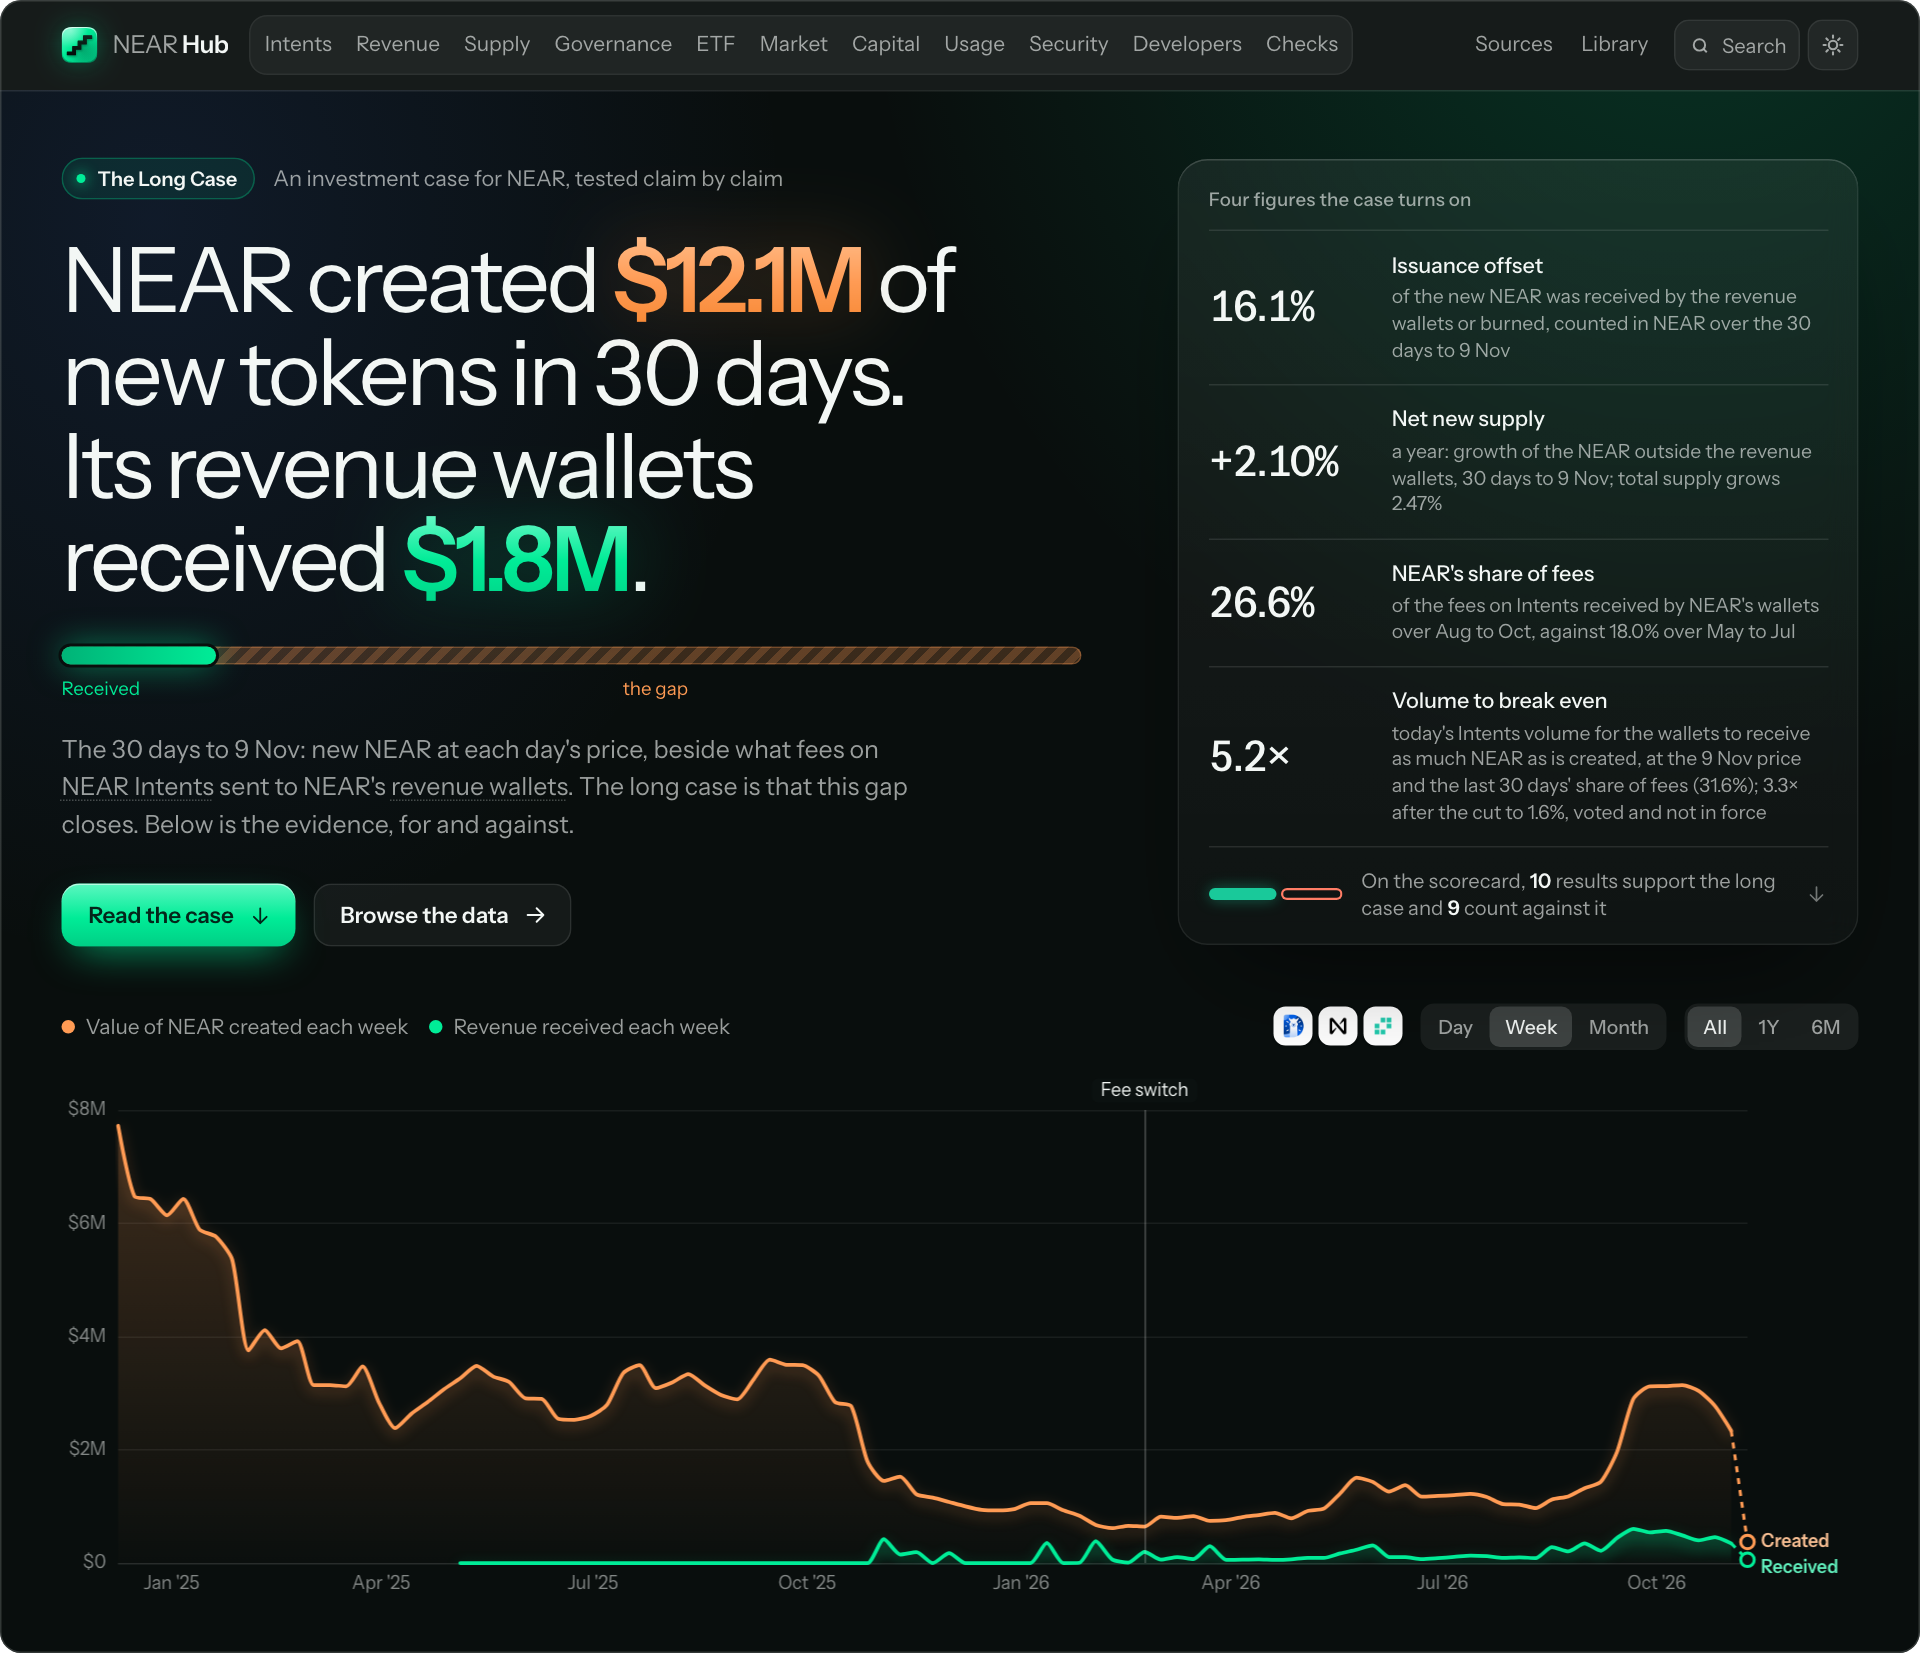
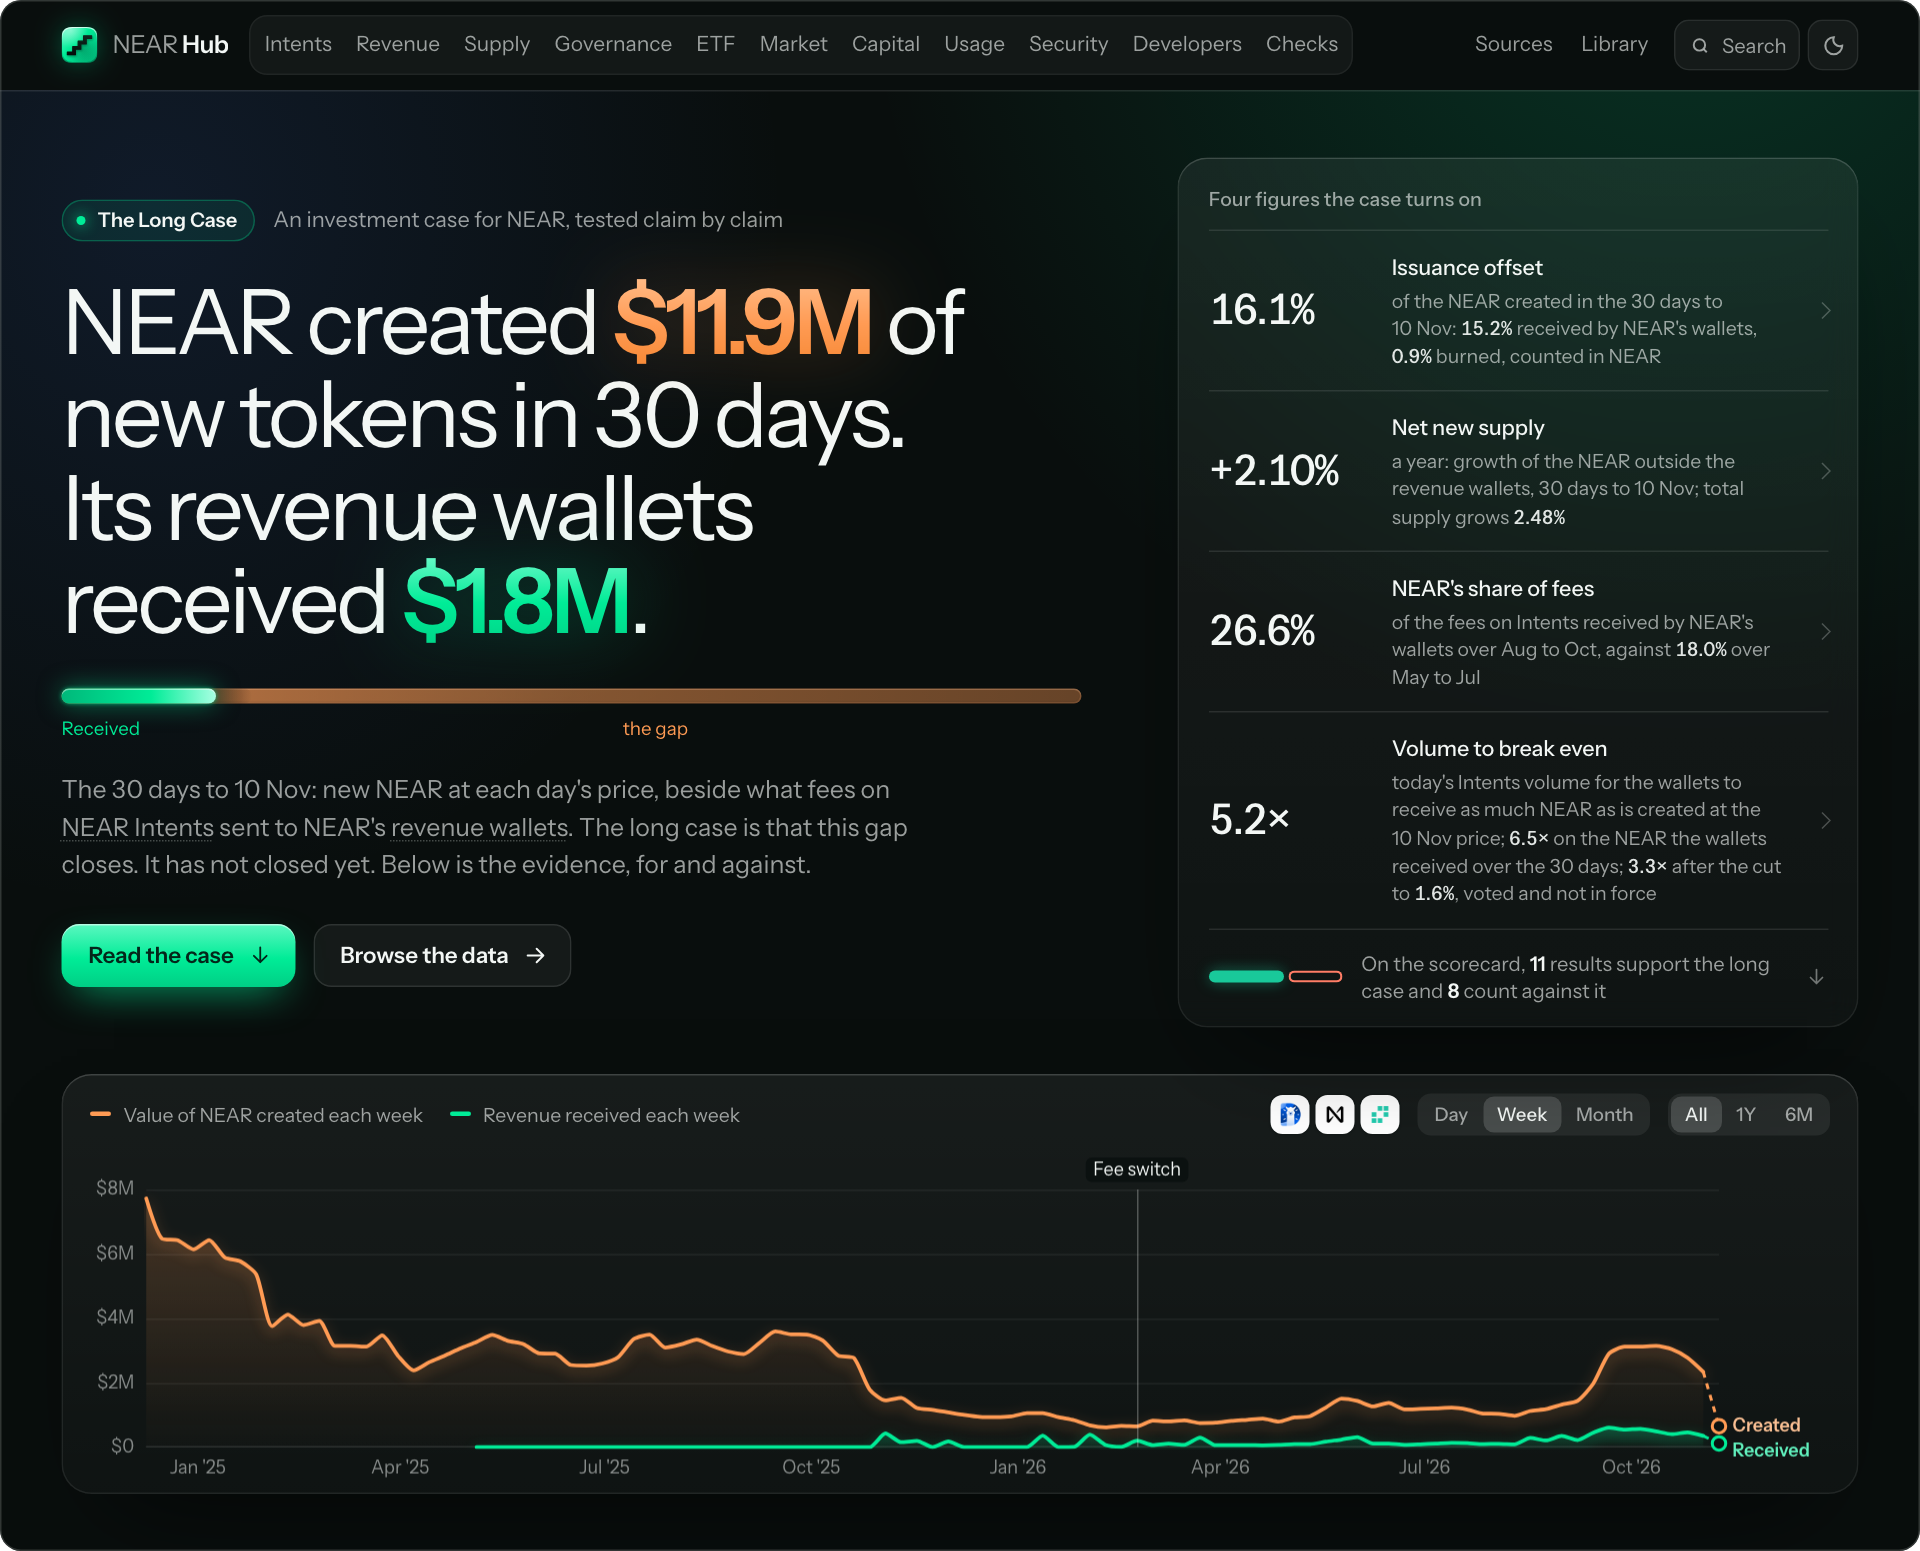
Retake the README's picture and tour in night mode, with the case as a chain
The home page picture and the tour are taken again from the site as it is now built, both in night mode.

The tour reads the case the way the card does: the answer under "The case so far", then the chain with its first
four links opened one at a time by the card's arrow, then how the count has moved and the findings, the subjects,
one question about NEAR Intents with its chart, reading and query, the guide, and the home page. It is 880 px
wide, 19.4 seconds at ten frames a second, and 4.1 MB.

The two descriptions in the README say what the pictures now show.

diff --git a/README.md b/README.md
@@ -24,7 +24,7 @@
 </p>
 
 <p align="center">
-  <a href="https://nearhub.tech"><img src="docs/images/hub-home.png" width="640" alt="The NEAR Hub home page: a headline that sets the value of the new NEAR created in 30 days beside what NEAR's revenue wallets received, four figures the case turns on, and a chart of both amounts by week."></a>
+  <a href="https://nearhub.tech"><img src="docs/images/hub-home.png" width="640" alt="The NEAR Hub home page in night mode: a headline that sets the value of the new NEAR created in 30 days beside what NEAR's revenue wallets received, four figures the case turns on, and a chart of both amounts by week."></a>
 </p>
 
 ## Where the case stands
@@ -45,7 +45,7 @@ case, where it stands, and what would change the author's mind. A claim that fai
 ## A short tour
 
 <p align="center">
-  <a href="https://nearhub.tech"><img src="docs/images/hub-tour.gif" width="640" alt="A tour of NEAR Hub: the case as five links with a result for each test, the eleven subjects, one question about NEAR Intents with its chart, reading and query, the guide to every table, and the home page."></a>
+  <a href="https://nearhub.tech"><img src="docs/images/hub-tour.gif" width="640" alt="A tour of NEAR Hub in night mode: the case so far, its links opened one at a time with a result for each test, how the count has moved and the findings, the subjects at a glance, one question about NEAR Intents with its chart, reading and query, the guide to every table, and the home page."></a>
 </p>
 
 The pictures on this page show the snapshot of 12 November 2026, and they and the demo video were made on
